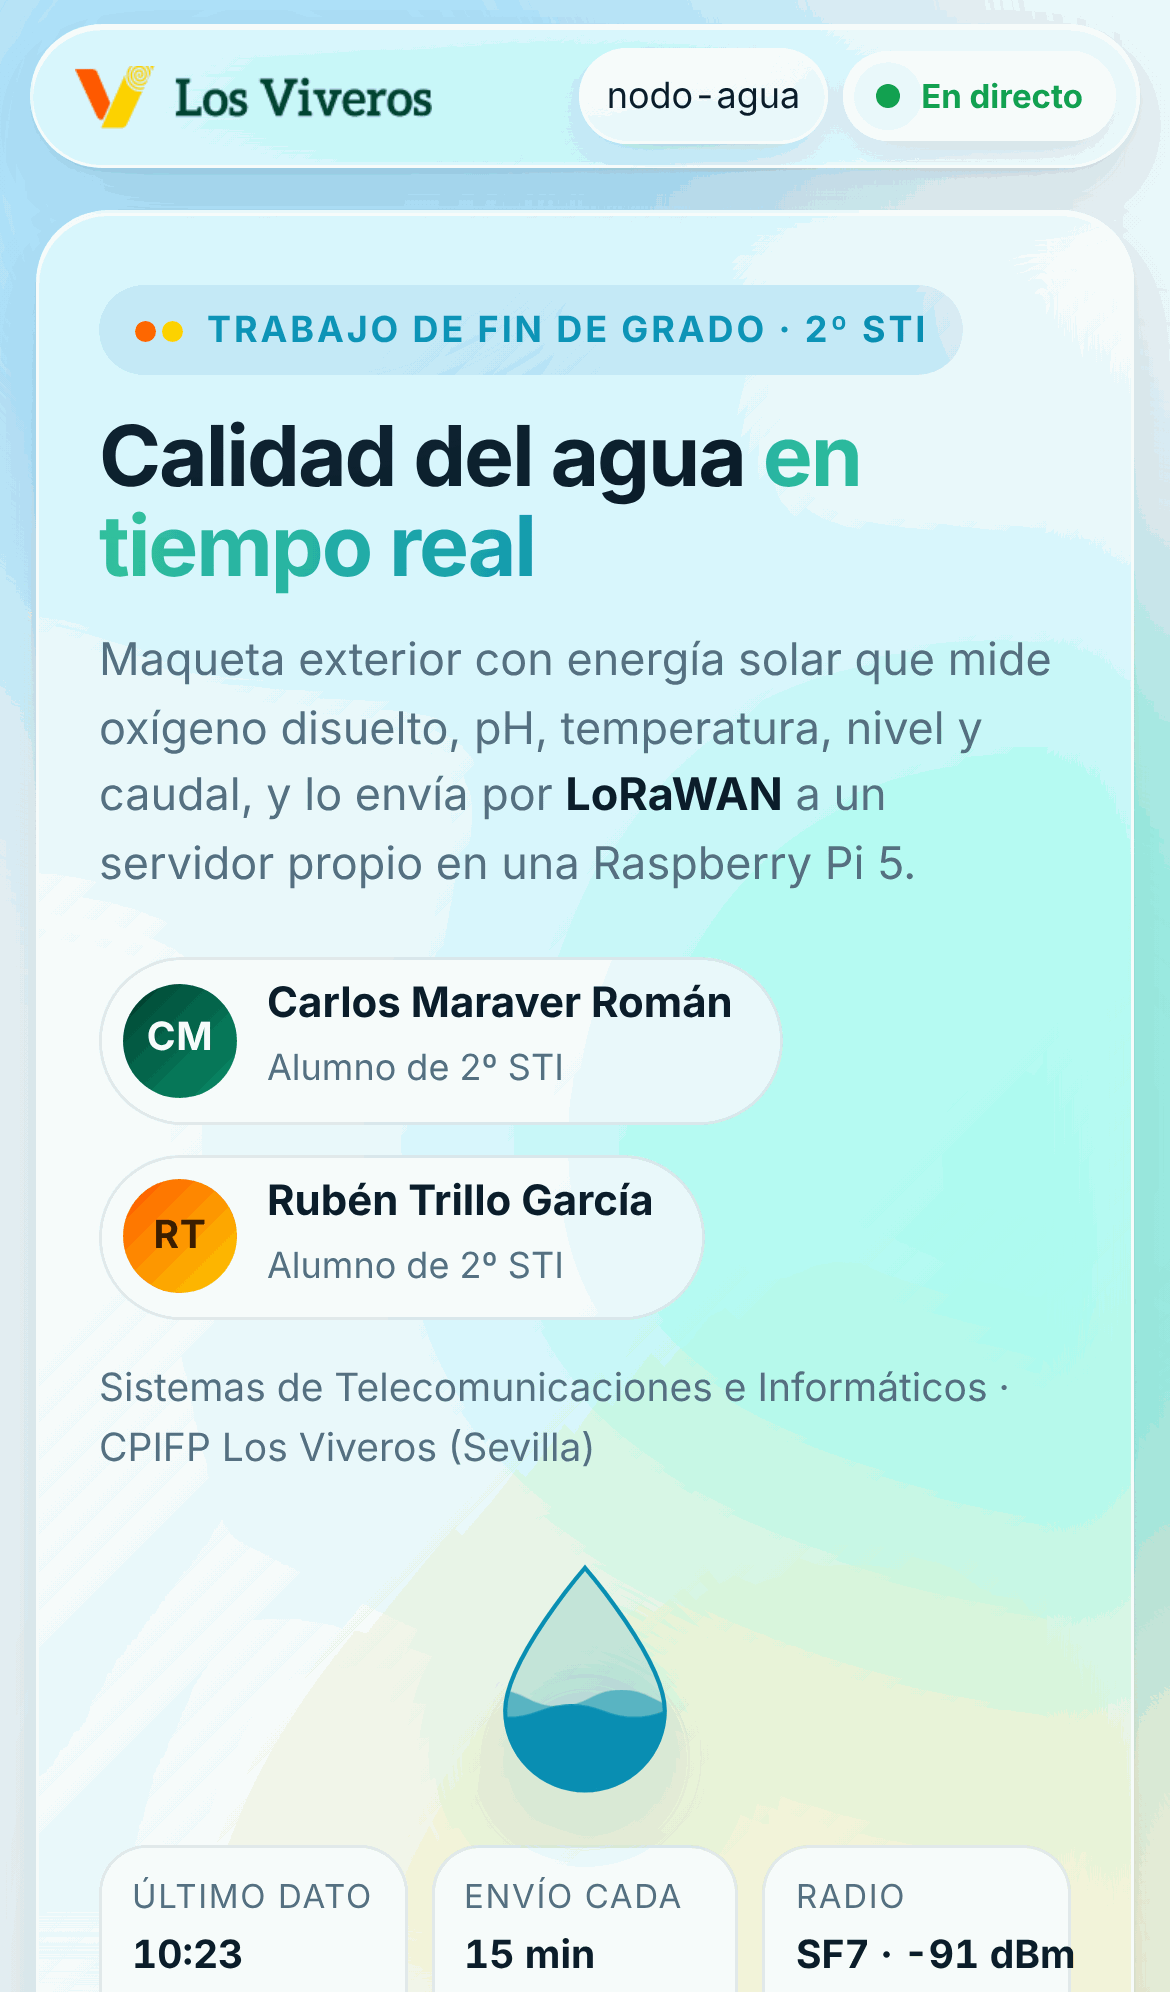
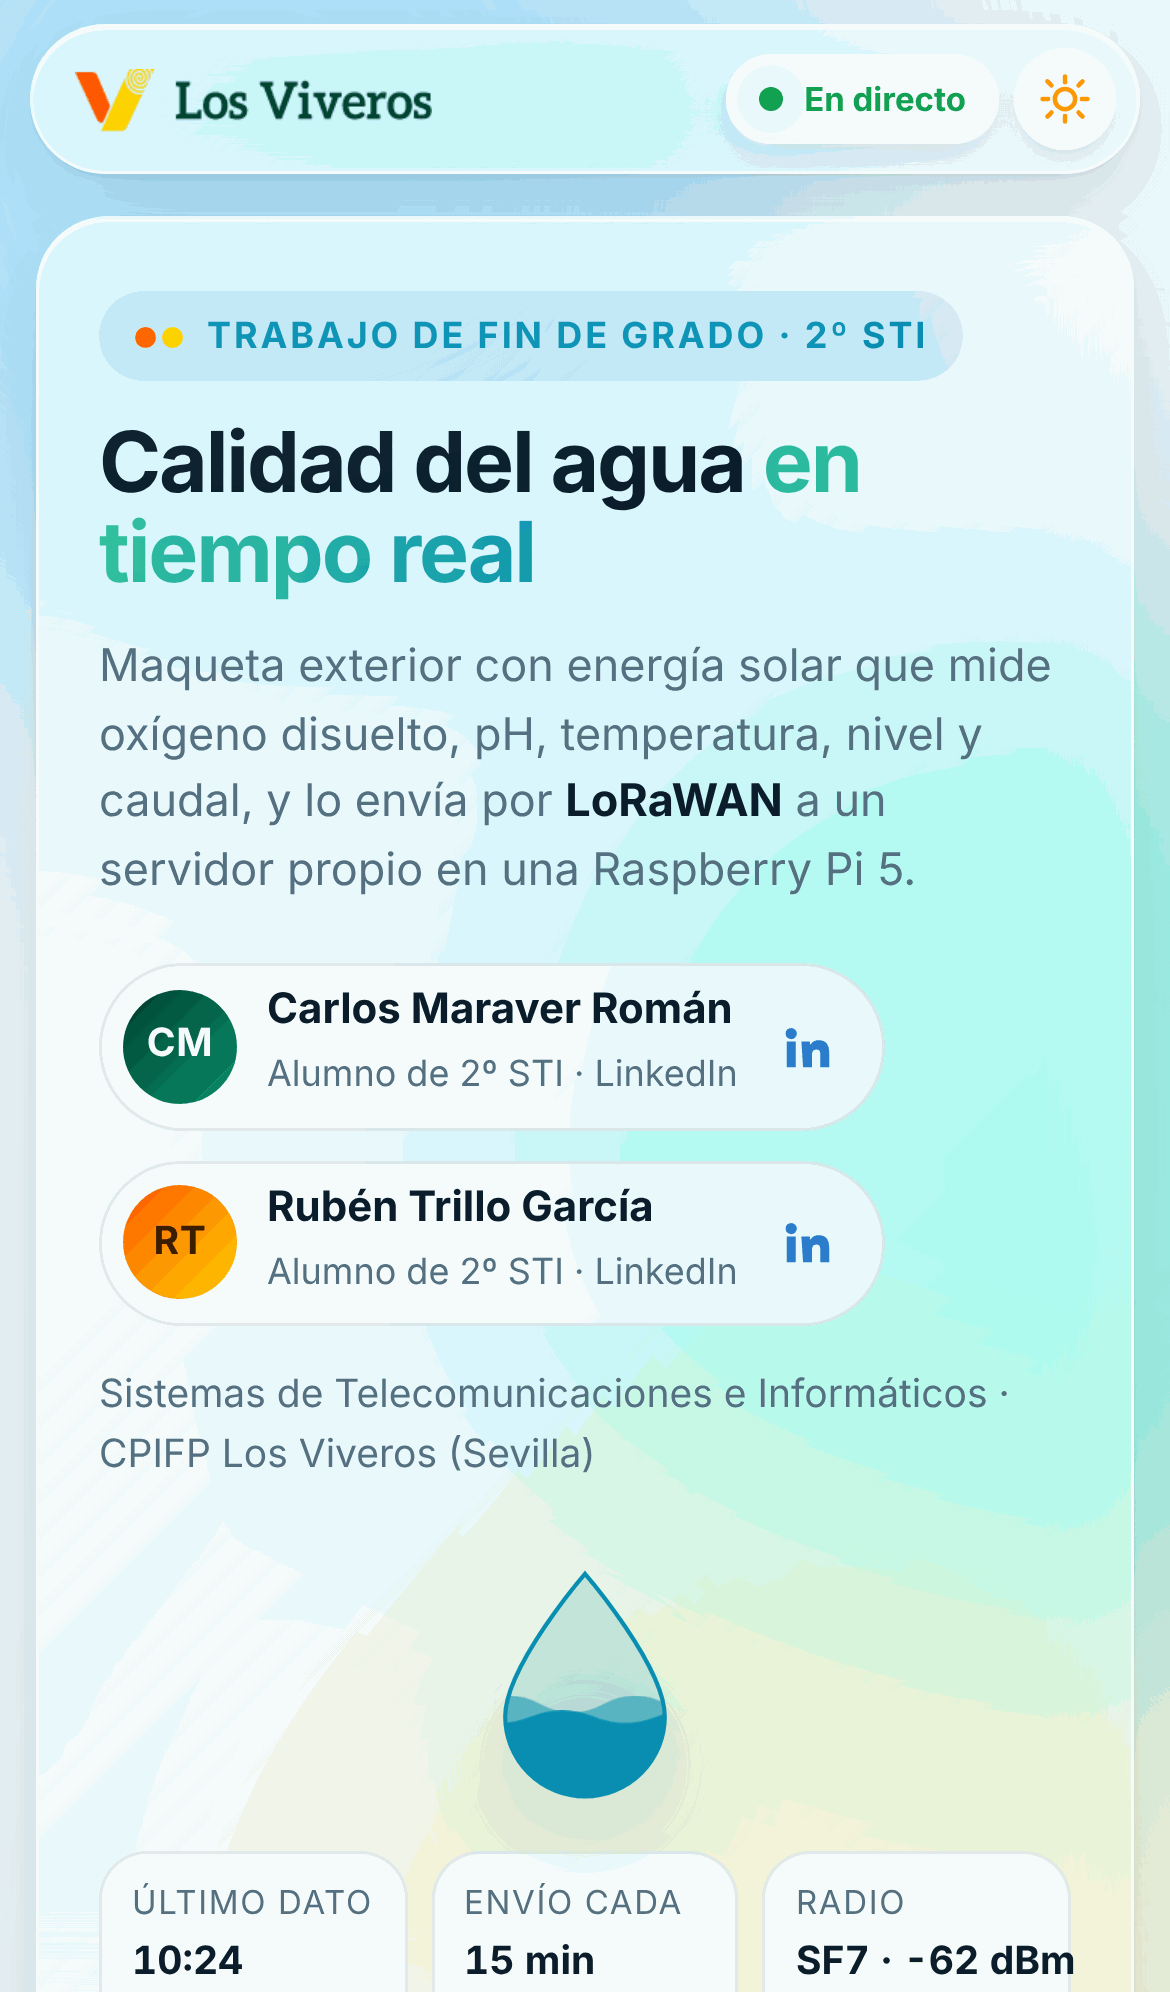
Web: LinkedIn de Carlos y Rubén y selector de nodo oculto con un solo nodo
Claude-Session: https://claude.ai/code/session_01D9udZhUNXsRqy8rDTUC1oa

diff --git a/raspberry/web/static/index.html b/raspberry/web/static/index.html
@@ -30,7 +30,7 @@
       <img class="logo-tema-oscuro" src="/static/logo-viveros-claro.png" alt="CPIFP Los Viveros" width="237" height="42">
     </a>
     <div class="estado-nodo">
-      <label class="selector cristal-suave">
+      <label class="selector cristal-suave" id="selector-nodo" hidden>
         <svg viewBox="0 0 24 24" aria-hidden="true"><path d="M12 2a7 7 0 0 0-7 7c0 5 7 13 7 13s7-8 7-13a7 7 0 0 0-7-7zm0 9.5A2.5 2.5 0 1 1 12 6.5a2.5 2.5 0 0 1 0 5z"/></svg>
         <select id="nodo" aria-label="Nodo"></select>
       </label>
@@ -51,8 +51,10 @@
         <p class="entradilla">Maqueta exterior con energía solar que mide oxígeno disuelto, pH, temperatura, nivel y caudal,
           y lo envía por <strong>LoRaWAN</strong> a un servidor propio en una Raspberry Pi 5.</p>
         <div class="autores">
-          <div class="autor"><span class="avatar">CM</span><div><b>Carlos Maraver Román</b><small>Alumno de 2º STI</small></div></div>
-          <div class="autor"><span class="avatar a2">RT</span><div><b>Rubén Trillo García</b><small>Alumno de 2º STI</small></div></div>
+          <a class="autor" href="https://www.linkedin.com/in/carlosmaravv" target="_blank" rel="noopener" title="LinkedIn de Carlos Maraver Román">
+            <span class="avatar">CM</span><div><b>Carlos Maraver Román</b><small>Alumno de 2º STI · LinkedIn</small></div><svg class="in" viewBox="0 0 24 24" aria-hidden="true"><path d="M4.98 3.5a2.5 2.5 0 1 1 0 5 2.5 2.5 0 0 1 0-5zM3 9.5h4V21H3zM9.5 9.5h3.8v1.6h.06c.53-1 1.83-2.06 3.77-2.06 4.03 0 4.77 2.65 4.77 6.1V21h-4v-5.1c0-1.22-.02-2.78-1.7-2.78-1.7 0-1.96 1.33-1.96 2.7V21h-4z"/></svg></a>
+          <a class="autor" href="https://www.linkedin.com/in/ruben-trillo-garcia-755830384" target="_blank" rel="noopener" title="LinkedIn de Rubén Trillo García">
+            <span class="avatar a2">RT</span><div><b>Rubén Trillo García</b><small>Alumno de 2º STI · LinkedIn</small></div><svg class="in" viewBox="0 0 24 24" aria-hidden="true"><path d="M4.98 3.5a2.5 2.5 0 1 1 0 5 2.5 2.5 0 0 1 0-5zM3 9.5h4V21H3zM9.5 9.5h3.8v1.6h.06c.53-1 1.83-2.06 3.77-2.06 4.03 0 4.77 2.65 4.77 6.1V21h-4v-5.1c0-1.22-.02-2.78-1.7-2.78-1.7 0-1.96 1.33-1.96 2.7V21h-4z"/></svg></a>
         </div>
         <p class="centro">Sistemas de Telecomunicaciones e Informáticos · CPIFP Los Viveros (Sevilla)</p>
       </div>
@@ -115,7 +117,7 @@
       <img class="logo-tema-claro" src="/static/logo-viveros.png" alt="CPIFP Los Viveros" width="237" height="42" loading="lazy">
       <img class="logo-tema-oscuro" src="/static/logo-viveros-claro.png" alt="CPIFP Los Viveros" width="237" height="42" loading="lazy">
       <p><b>TFG de 2º de Sistemas de Telecomunicaciones e Informáticos</b><br>
-        Carlos Maraver Román y Rubén Trillo García · CPIFP Los Viveros, Sevilla</p>
+        <a href="https://www.linkedin.com/in/carlosmaravv" target="_blank" rel="noopener">Carlos Maraver Román</a> y <a href="https://www.linkedin.com/in/ruben-trillo-garcia-755830384" target="_blank" rel="noopener">Rubén Trillo García</a> · CPIFP Los Viveros, Sevilla</p>
       <p class="tenue">LILYGO ESP32 · LoRaWAN EU868 · MikroTik wAP LR8 · ChirpStack · TimescaleDB · Raspberry Pi 5<br>
         Horas en hora de Madrid</p>
     </div>

diff --git a/raspberry/web/static/estilo.css b/raspberry/web/static/estilo.css
@@ -372,3 +372,12 @@ button:focus-visible, a:focus-visible { outline: 2px solid var(--acento); outlin
 /* Al cambiar de tema, los colores pasan suavemente */
 html.cambiando-tema body, html.cambiando-tema .tarjeta, html.cambiando-tema .grafica, html.cambiando-tema .cristal,
 html.cambiando-tema .cristal-suave { transition: background-color .4s, color .4s, border-color .4s !important; }
+
+/* ---------- Autores con enlace a LinkedIn ---------- */
+a.autor { color: inherit; text-decoration: none; }
+.autor .in { width: 18px; height: 18px; fill: #0a66c2; flex: none; margin-left: 4px; opacity: .85; transition: opacity .3s; }
+:root[data-tema="oscuro"] .autor .in { fill: #70b5f9; }
+a.autor:hover .in { opacity: 1; }
+.pie-caja a { color: inherit; text-decoration-color: color-mix(in srgb, var(--acento) 50%, transparent); text-underline-offset: 3px; }
+.pie-caja a:hover { color: var(--acento); }
+.selector[hidden] { display: none; }

diff --git a/raspberry/web/static/app.js b/raspberry/web/static/app.js
@@ -344,6 +344,8 @@ async function iniciar() {
     pintarTarjetas(null, false);
     $("#info-historico").textContent = "Todavía no ha llegado ningún mensaje del nodo.";
   } else {
+    // El selector de nodo solo se enseña si hay más de uno (ahora solo está la maqueta)
+    $("#selector-nodo").hidden = nodos.length < 2;
     $("#nodo").innerHTML = nodos.map(n =>
       `<option value="${n.dev_eui}">${n.nombre || n.dev_eui}</option>`).join("");
     estado.nodo = nodos[0].dev_eui;

diff --git a/raspberry/README.md b/raspberry/README.md
@@ -187,8 +187,9 @@ Borrar después los datos de prueba: `DELETE FROM medidas WHERE dev_eui='0000000
 (Captura con **datos simulados** de 30 días (vista de 1 semana), no son medidas reales. En el móvil: `docs/img/web-movil-datos-simulados.png`; tema oscuro: `docs/img/web-oscuro-datos-simulados.png`.)
 
 Qué tiene la página:
-- **Cabecera** fija con el logo del CPIFP Los Viveros, el nodo elegido y si llegan datos en directo.
-- **Portada** del TFG (2º STI, Carlos Maraver Román y Rubén Trillo García) con la hora del último dato y la radio (SF y RSSI).
+- **Cabecera** fija con el logo del CPIFP Los Viveros, si llegan datos en directo y el botón de modo claro/oscuro.
+  El selector de nodo solo aparece si hay más de un nodo dado de alta (ahora solo está la maqueta).
+- **Portada** del TFG (2º STI, Carlos Maraver Román y Rubén Trillo García, con enlace a sus LinkedIn) con la hora del último dato y la radio (SF y RSSI).
 - **Ahora mismo**: una tarjeta por variable con icono, valor animado, barrita y estado (correcto, vigilar o fuera de rango).
   Cuando llega un uplink la tarjeta da un destello y el número cuenta hasta el valor nuevo.
 - **Histórico**: rangos de 1 h, 5 h, 24 h, 1 semana y 30 días, más fechas a elegir y descarga en CSV.
